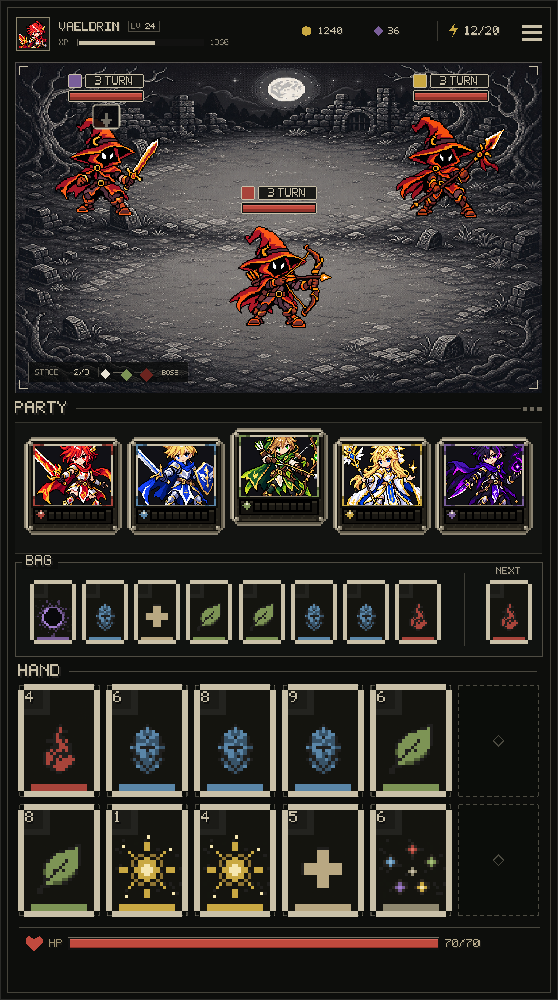
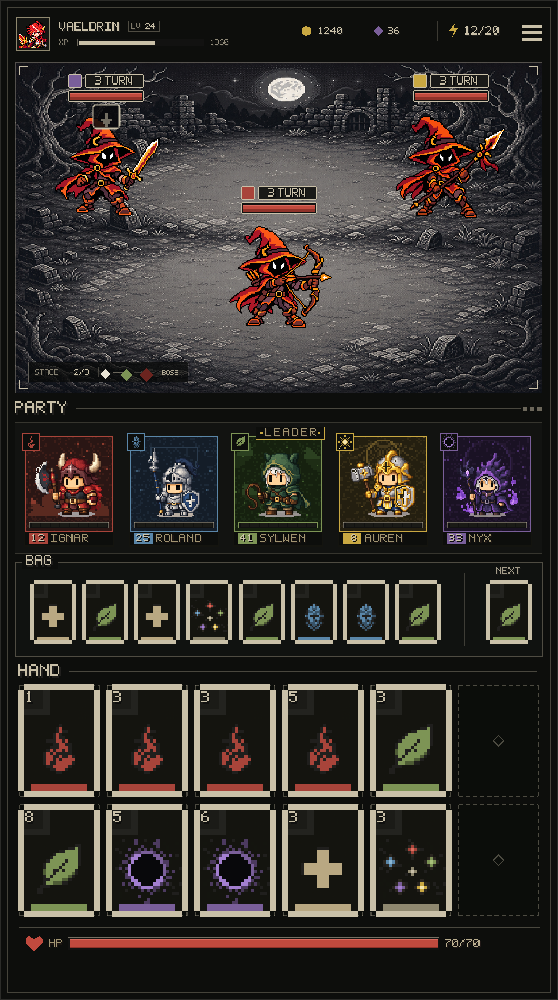
Fix party card layout contract

diff --git a/assets/battle/ui_v11/spec/POSICIONAMENTO.md b/assets/battle/ui_v11/spec/POSICIONAMENTO.md
@@ -1,0 +1,65 @@
+# Posicionamento e encaixe — contrato de layout
+
+Este contrato substitui medidas implícitas das versões anteriores. A arte já está
+correta; a integração deve preservar hierarquia, espaço de coordenadas, recorte
+e ancoragem.
+
+## Regras
+
+1. Toda medida pertence ao espaço do nó-pai declarado.
+2. A árvore de nós é normativa.
+3. `FRAME` é o único nó com `clip_contents = true`.
+4. O personagem é ancorado pelos pés: `y = 136 - altura`.
+5. O tamanho de desenho é tabelado por elemento, nunca calculado por escala.
+
+## Árvore normativa
+
+```text
+PartyCard            Control  152x188   posição manual, PRESET_TOP_LEFT
+├── bg               ColorRect (0,0,152,188)
+├── border_out       borda 2px
+├── FRAME            Control  (2,2) 148x184   clip_contents = true
+│   ├── field        TextureRect (0,0,148,184)  STRETCH_TILE
+│   ├── scene        TextureRect (-1,0,150,138) STRETCH_SCALE
+│   ├── hero         TextureRect (x,136-h,w,h)
+│   └── border_in    borda 2px na cor do elemento
+├── seal_bg          ColorRect (-3,-3,30,30)
+├── seal_border      borda 2px na cor do elemento
+├── seal_sym         TextureRect (-1,-1,26,26)
+├── skill_bar        (9,147,134,10), 8 pips de 14x6, passo 16
+├── name_plate       (2,162,148,24)
+│   ├── level_chip   offset (6,3)
+│   └── name_label   offset (43,4), glyph 16
+└── leader_plaque    (38,-14,117,22), apenas no líder
+```
+
+Elementos internos são filhos de `FRAME`. Elementos que sangram para fora ou
+precisam sobrepor a moldura são filhos de `PartyCard`.
+
+## Desenho do personagem
+
+Espaço: `FRAME`. Baseline: `136`. Centro horizontal:
+`x = round((148 - w) / 2)`.
+
+| elemento | desenho | x | y |
+| --- | ---: | ---: | ---: |
+| dragon | 114×108 | 17 | 28 |
+| knight | 88×116 | 30 | 20 |
+| nature | 112×108 | 18 | 28 |
+| light | 108×112 | 20 | 24 |
+| dark | 104×108 | 22 | 28 |
+| heal | 96×108 | 26 | 28 |
+
+Os PNGs são maiores que o desenho final. Use `STRETCH_SCALE`, filtro `Nearest`
+e `EXPAND_IGNORE_SIZE`. No Godot 4.7, configure `expand_mode` antes de atribuir a
+textura para não herdar o tamanho mínimo do PNG.
+
+## Integração
+
+- `FRAME.clip_contents` deve permanecer habilitado.
+- Nenhum filho de `FRAME` pode usar coordenadas de `PartyCard`, ou vice-versa.
+- O card do líder mede os mesmos 152×188 dos demais.
+- O anel interno sempre usa a cor do elemento; dourado pertence à placa.
+- O card não deve ser filho direto de `HBoxContainer` ou `GridContainer`. Use um
+  wrapper `Control` 152×188 quando a faixa for gerenciada por container.
+- Fontes e texturas de UI usam filtro `Nearest`, sem mipmaps.
